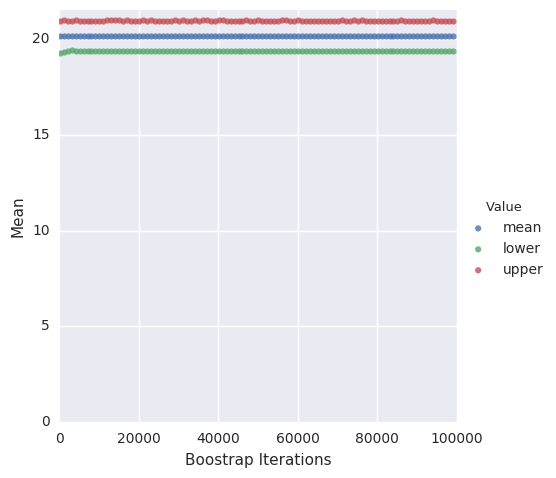
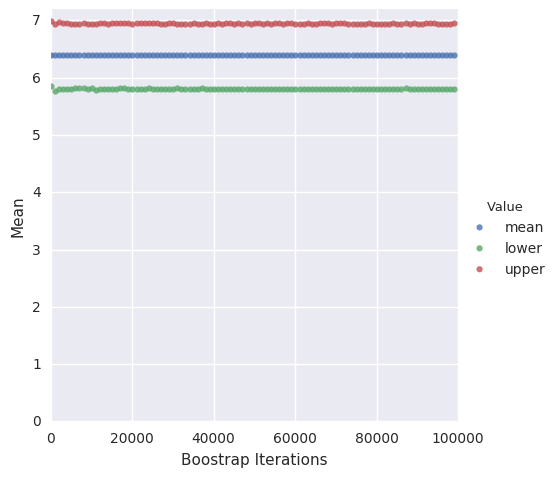
fixed issues

diff --git a/lab2/bootstrap.py b/lab2/bootstrap.py
@@ -14,7 +14,7 @@ import numpy as np
 def boostrap(statistic_func, iterations, data):
 	samples  = np.random.choice(data,replace = True, size = [iterations, len(data)])
 	#print samples.shape
-	data_mean = data.mean()
+	data_mean = data.std()
 	vals = []
 	for sample in samples:
 		sta = statistic_func(sample)
@@ -33,29 +33,28 @@ if __name__ == "__main__":
 	
 	data = df.values.T[1]
 	boots = []
-	for i in range(100,100000,1000):
-		boot = boostrap(np.mean, i, data)
-		boots.append([i,boot[0], "mean"])
-		boots.append([i,boot[1], "lower"])
-		boots.append([i,boot[2], "upper"])
+	boot = boostrap(np.std, 10000, data)
+
+	print("Current Fleet")
+	print("upper Bound", boot[2]);
+	print("lower Bound", boot[1]);
+
+	df = pd.read_csv('./newFleet.csv')
+	# print df.columns
+
+	data = df.values.T[1]
+	boots = []
+	boot = boostrap(np.std, 10000, data)
+
+	print("New Fleet")
+	print("upper Bound", boot[2]);
+	print("lower Bound", boot[1]);
 
 
 
-	df_boot = pd.DataFrame(boots,  columns=['Boostrap Iterations','Mean',"Value"])
-	sns_plot = sns.lmplot(df_boot.columns[0],df_boot.columns[1], data=df_boot, fit_reg=False,  hue="Value")
 
 
-
-
-	sns_plot.axes[0,0].set_ylim(0,)
-	sns_plot.axes[0,0].set_xlim(0,100000)
-
-	sns_plot.savefig("bootstrap_confidence_currentFleet.png",bbox_inches='tight')
-	sns_plot.savefig("bootstrap_confidence_currentFleet.pdf",bbox_inches='tight')
-
-	
-	
-	#print ("Mean: %f")%(np.mean(data))
+#print ("Mean: %f")%(np.mean(data))
 	#print ("Var: %f")%(np.var(data))
 	
 

diff --git a/lab2/README.md b/lab2/README.md
@@ -20,13 +20,11 @@ Median : 32.000000
 Var    : 36.831918
 Std    : 6.068931
 
-Bootstraping the American Cars data we get the following plot
-![logo](./bootstrap_confidence_currentFleet.png?raw=true)
+Bootstraping the Japanese Cars Standard Deviation give a the following bounds
+upper Bound   : 6.9094452907068673)
+lower Bound   : 5.1489572668311254
 
-
-Bootstraping the Japanese Cars data we get the following plot
-![logo](./bootstrap_confidence_newFleet.png?raw=true)
-
-This gives us confidence in saying that the Japanese cars are more efficient.
-
+Bootstraping the American Cars Standard Deviation give a the following bounds
+upper Bound   : 6.9338545004540215)
+lower Bound   : 5.8071471217948147)
 
